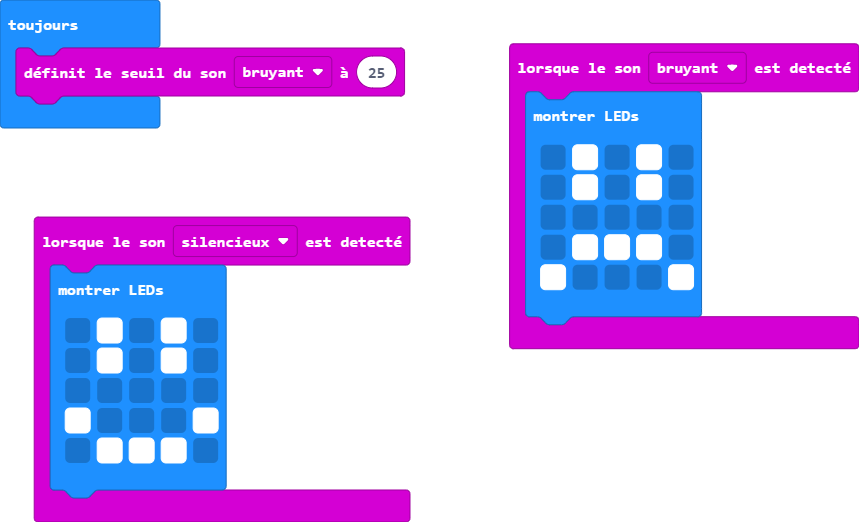
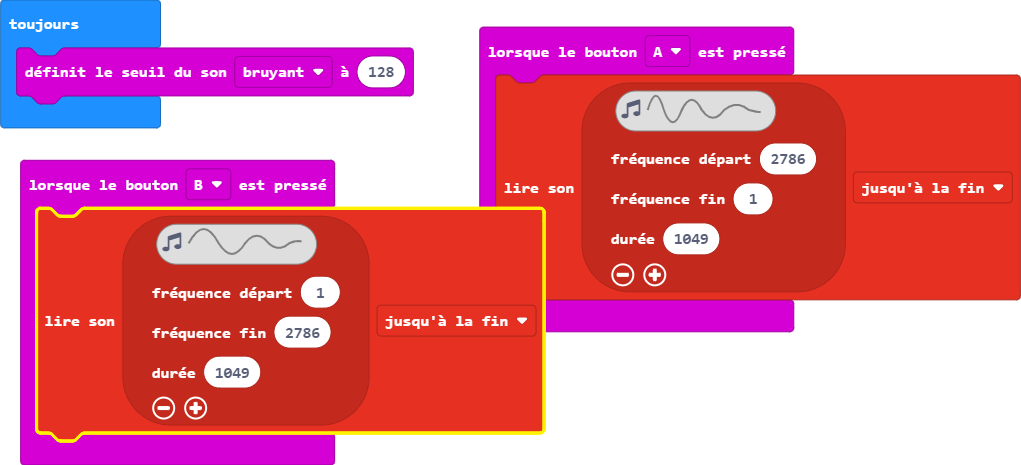
Mise à jour pxt.json, main.blocks, main.ts

diff --git a/main.ts b/main.ts
@@ -1,21 +1,27 @@
-input.onSound(DetectedSound.Loud, function () {
-    basic.showLeds(`
-        . # . # .
-        . # . # .
-        . . . . .
-        . # # # .
-        # . . . #
-        `)
+input.onButtonPressed(Button.A, function () {
+    music.playSoundEffect(music.createSoundEffect(
+    WaveShape.Sine,
+    2786,
+    1,
+    255,
+    0,
+    1049,
+    SoundExpressionEffect.None,
+    InterpolationCurve.Linear
+    ), SoundExpressionPlayMode.UntilDone)
 })
-input.onSound(DetectedSound.Quiet, function () {
-    basic.showLeds(`
-        . # . # .
-        . # . # .
-        . . . . .
-        # . . . #
-        . # # # .
-        `)
+input.onButtonPressed(Button.B, function () {
+    music.playSoundEffect(music.createSoundEffect(
+    WaveShape.Sine,
+    1,
+    2786,
+    255,
+    0,
+    1049,
+    SoundExpressionEffect.None,
+    InterpolationCurve.Linear
+    ), SoundExpressionPlayMode.UntilDone)
 })
 basic.forever(function () {
-    input.setSoundThreshold(SoundThreshold.Loud, 25)
+    input.setSoundThreshold(SoundThreshold.Loud, 128)
 })
